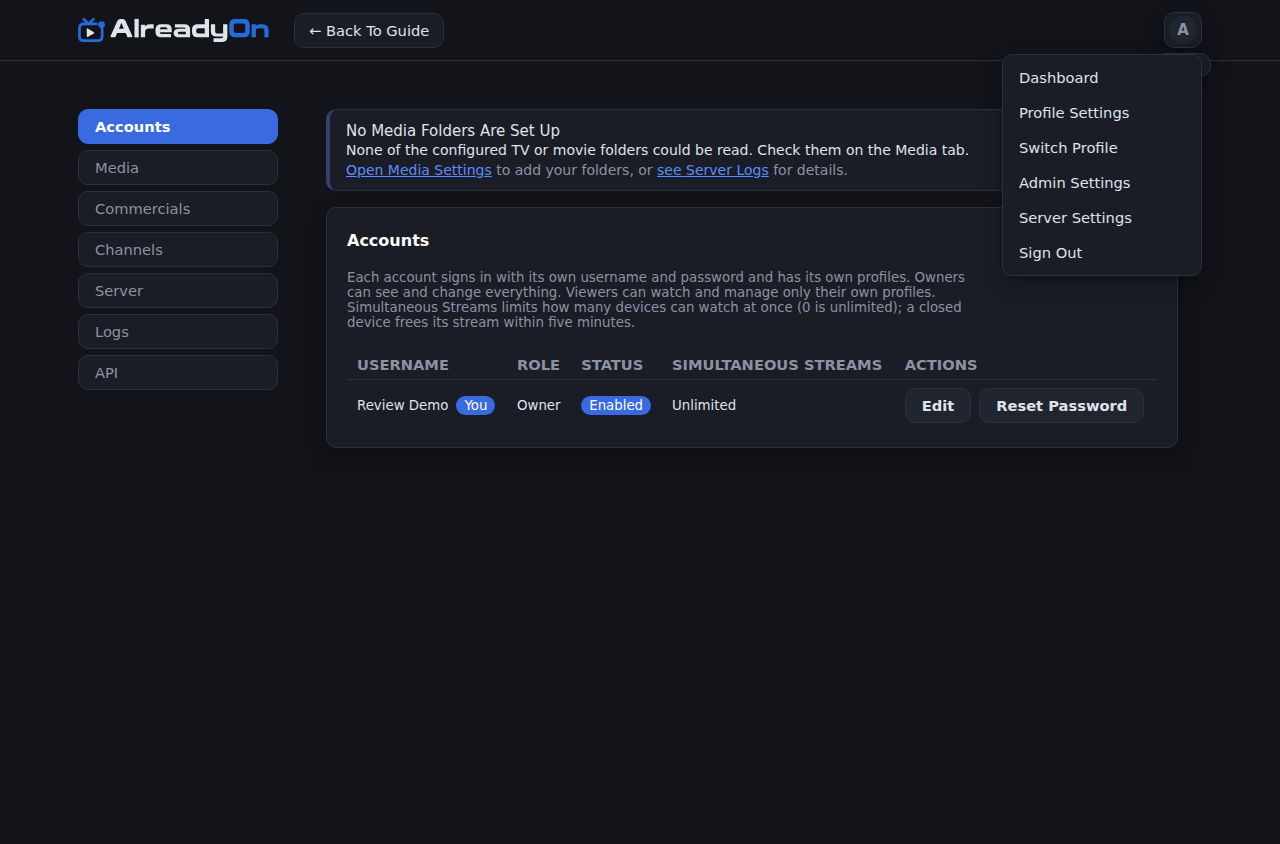
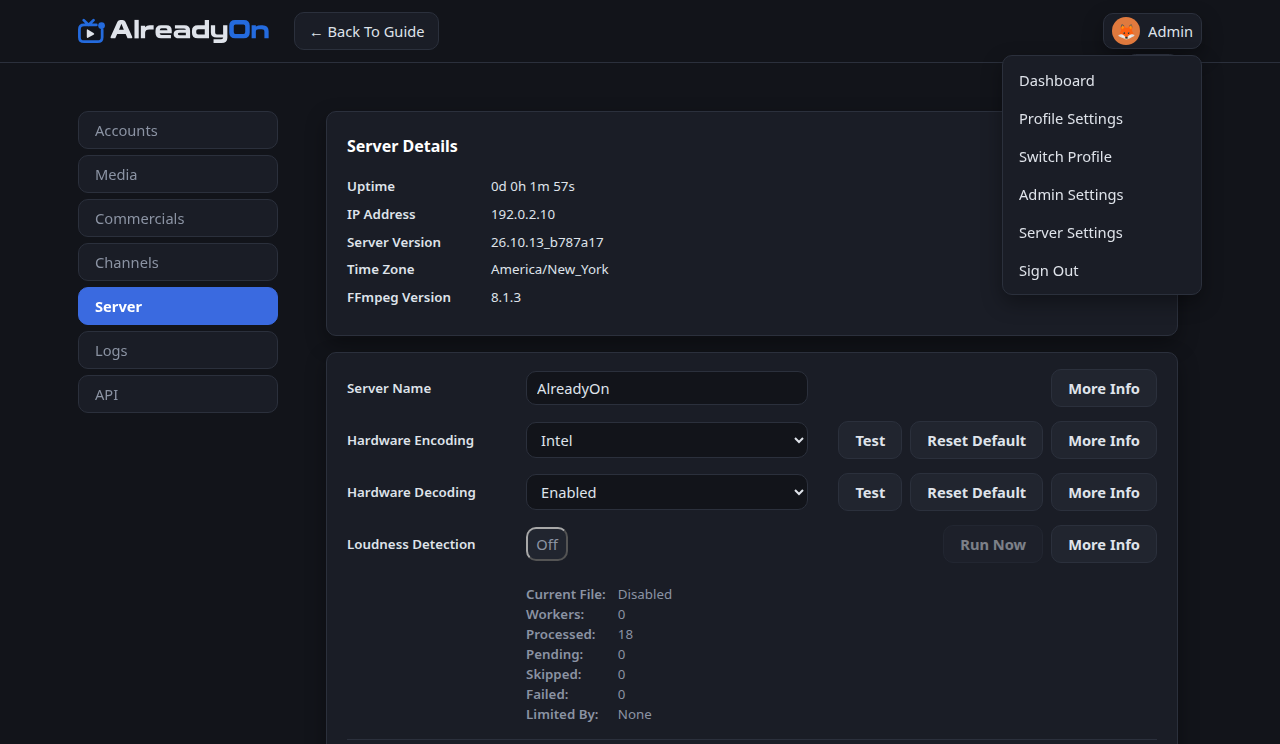
Fix compact settings headers and readable account tables

diff --git a/web/src/pages/admin/AccountsPage.tsx b/web/src/pages/admin/AccountsPage.tsx
@@ -129,7 +129,8 @@ export default function AccountsPage() {
             }}
           />
         )}
-        <table className="admin-table">
+        <div className="accounts-table-scroll" role="region" aria-label="Accounts table" tabIndex={0}>
+        <table className="admin-table accounts-table">
           <thead>
             <tr>
               <th>Username</th>
@@ -209,6 +210,7 @@ export default function AccountsPage() {
             )}
           </tbody>
         </table>
+        </div>
         {resetting !== null && (
           <ResetPasswordForm
             account={accounts.find((a) => a.id === resetting)}

diff --git a/web/src/pages/admin/AdminShared.css b/web/src/pages/admin/AdminShared.css
@@ -166,6 +166,27 @@ a.admin-btn:visited {
   stroke-linejoin: round;
 }
 
+/* Keep role and audience words readable on phones without widening the page.
+   The table remains keyboard-scrollable within its own labelled region. */
+.profiles-table-scroll,
+.accounts-table-scroll {
+  max-width: 100%;
+  overflow-x: auto;
+}
+
+.profiles-table,
+.accounts-table {
+  min-width: 520px;
+}
+
+.profiles-table th,
+.profiles-table td,
+.accounts-table th,
+.accounts-table td {
+  white-space: nowrap;
+  overflow-wrap: normal;
+}
+
 .profiles-table th:first-child,
 .profiles-table td:first-child {
   width: 1%;

diff --git a/web/src/pages/admin/UsersPage.tsx b/web/src/pages/admin/UsersPage.tsx
@@ -123,6 +123,7 @@ export default function UsersPage() {
             + Add Profile
           </button>
         </div>
+        <div className="profiles-table-scroll" role="region" aria-label="Profiles table" tabIndex={0}>
         <table className="admin-table profiles-table">
           <thead>
             <tr>
@@ -174,6 +175,7 @@ export default function UsersPage() {
             {editingId === 'new' && <UserEditRow draft={draft} setDraft={setDraft} onSave={saveEdit} onCancel={cancelEdit} />}
           </tbody>
         </table>
+        </div>
       </div>
 
       </AccountCard>

diff --git a/web/src/pages/ProfileSettingsPage.tsx b/web/src/pages/ProfileSettingsPage.tsx
@@ -8,7 +8,6 @@ import { useEffect, useRef, useState, type ChangeEvent } from 'react';
 import { useNavigate } from 'react-router-dom';
 import { useUsers } from '../users/UsersContext';
 import { PasswordInput } from '../components/PasswordInput';
-import ProfileMenu from './ProfileMenu';
 import type { ProfilePatch } from '../api/client';
 import { PRESET_ICONS, UserAvatar } from '../users/avatars';
 import { DEFAULT_SUBTITLE_LANGUAGE, SUBTITLE_LANGUAGES, languageLabel } from '../playback/subtitles';

diff --git a/web/src/pages/AdminPage.tsx b/web/src/pages/AdminPage.tsx
@@ -13,7 +13,6 @@ import { useAccount } from '../users/AccountContext';
 import { useUsers } from '../users/UsersContext';
 import StartupNotice from '../status/StartupNotice';
 import { useStartupStatus } from '../status/useStartupStatus';
-import ProfileMenu from './ProfileMenu';
 import './AdminPage.css';
 
 type AdminTab = 'accounts' | 'channels' | 'commercials' | 'media' | 'server' | 'logs' | 'api';

diff --git a/web/src/pages/AdminPage.css b/web/src/pages/AdminPage.css
@@ -205,6 +205,12 @@
     margin-left: 0;
   }
 
+  /* Reserve one touch target beside the brand; the accessible name stays on
+     the button while the visible name belongs only in wider headers. */
+  .admin-topbar-inner .profile-menu-trigger-name {
+    display: none;
+  }
+
   .admin-content {
     padding: 24px 12px 32px;
   }

diff --git a/web/src/pages/AdminSettingsPage.tsx b/web/src/pages/AdminSettingsPage.tsx
@@ -7,7 +7,6 @@ import ProfileMenu from './ProfileMenu';
 import { useEffect } from 'react';
 import { Navigate, useNavigate } from 'react-router-dom';
 import UsersPage from './admin/UsersPage';
-import ProfileMenu from './ProfileMenu';
 import { useUsers } from '../users/UsersContext';
 import './AdminPage.css';
 

diff --git a/docs/review-screenshots/README.md b/docs/review-screenshots/README.md
@@ -1,0 +1,9 @@
+# Settings layout review
+
+These captures show the settings headers both with the profile menu closed (`*-closed.png`) and open. Mobile captures use a 390px viewport; the desktop Server Settings pair uses 1280px. Compact settings headers show the avatar alone, while wider headers retain the profile name beside it.
+
+Accounts and Profiles keep their table text intact inside keyboard-accessible horizontal scroll regions. Scroll these regions to reach the remaining columns and actions. The page itself stays within the viewport.
+
+Screenshots are illustrative local preview captures. Server IP addresses use the documentation-only address `192.0.2.10`; browser-session details are outside the captured viewport. No server configuration or account data was changed for these captures.
+
+Validation covered closed/open menu geometry and viewport bounds at 320, 390, 768 and 1280px, plus production WebUI build, lint and browser-test syntax. This focused review does not represent a full release validation run.

diff --git a/docs/release-notes/2026-10-13-mobile-settings-profile-menu.md b/docs/release-notes/2026-10-13-mobile-settings-profile-menu.md
@@ -1,3 +1,5 @@
 ## Bug fixes
 
 - Keep settings screens aligned on narrow displays when opening the profile menu.
+- Show only the profile avatar in settings headers at 700px and below; wider headers retain the clickable name beside it.
+- Keep Accounts and Profiles table text readable on phones with keyboard-accessible horizontal scrolling inside each table region, without widening the page.
